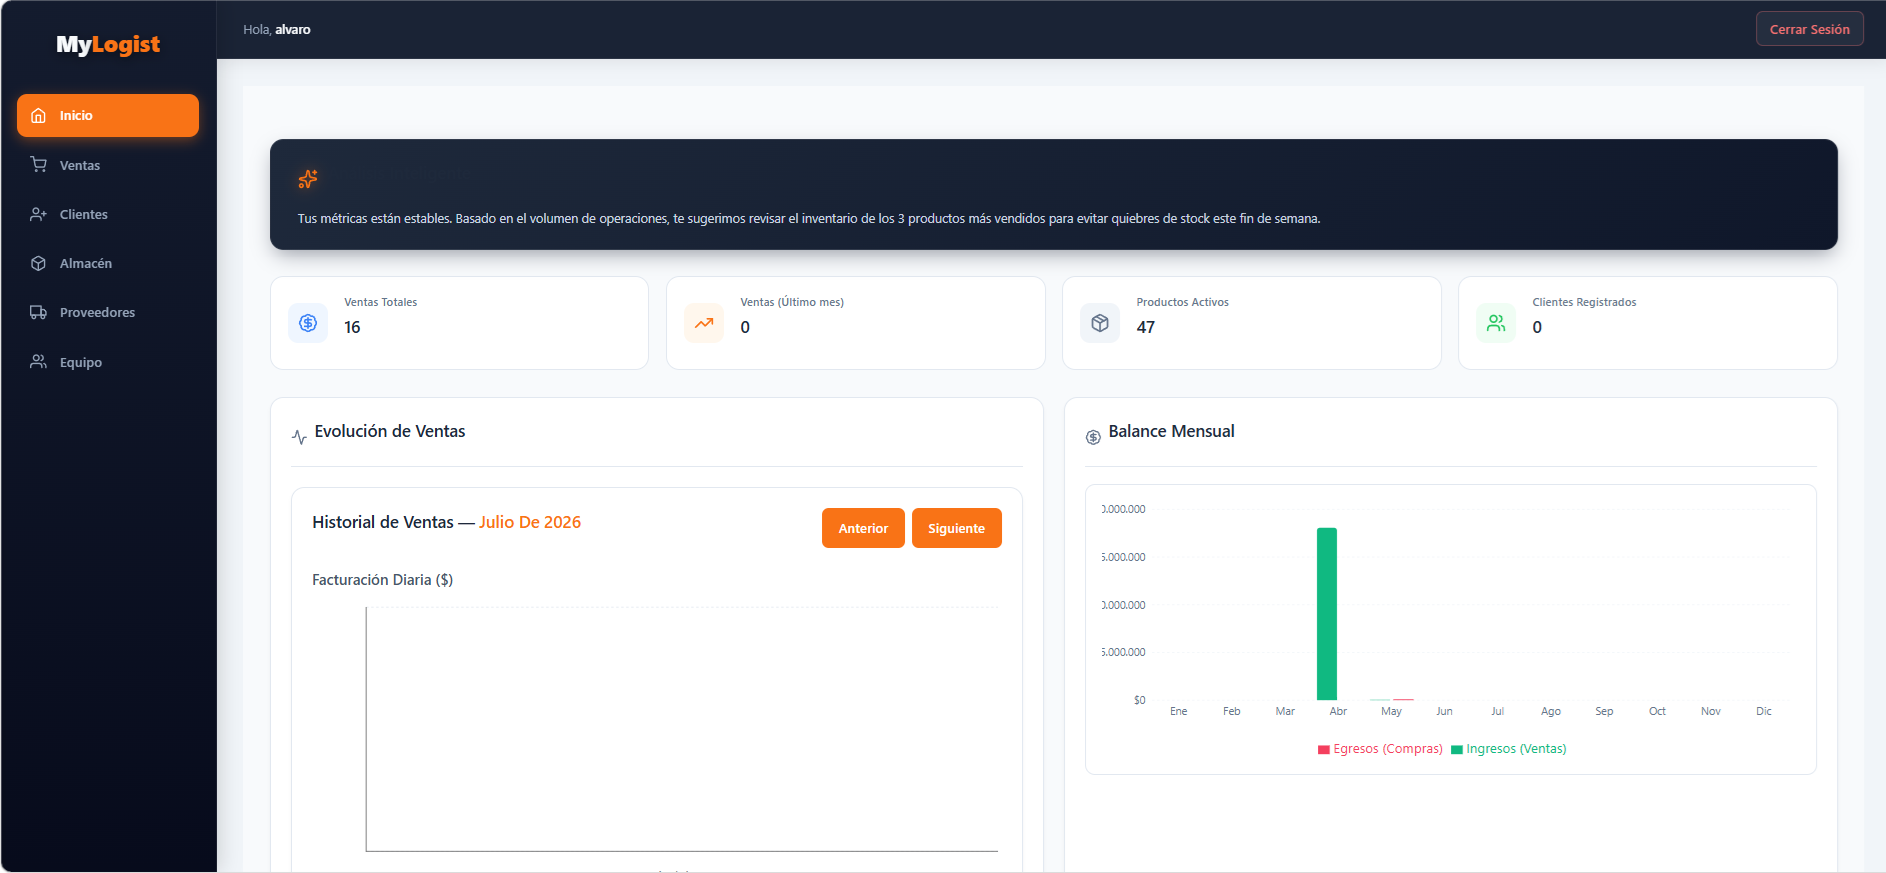
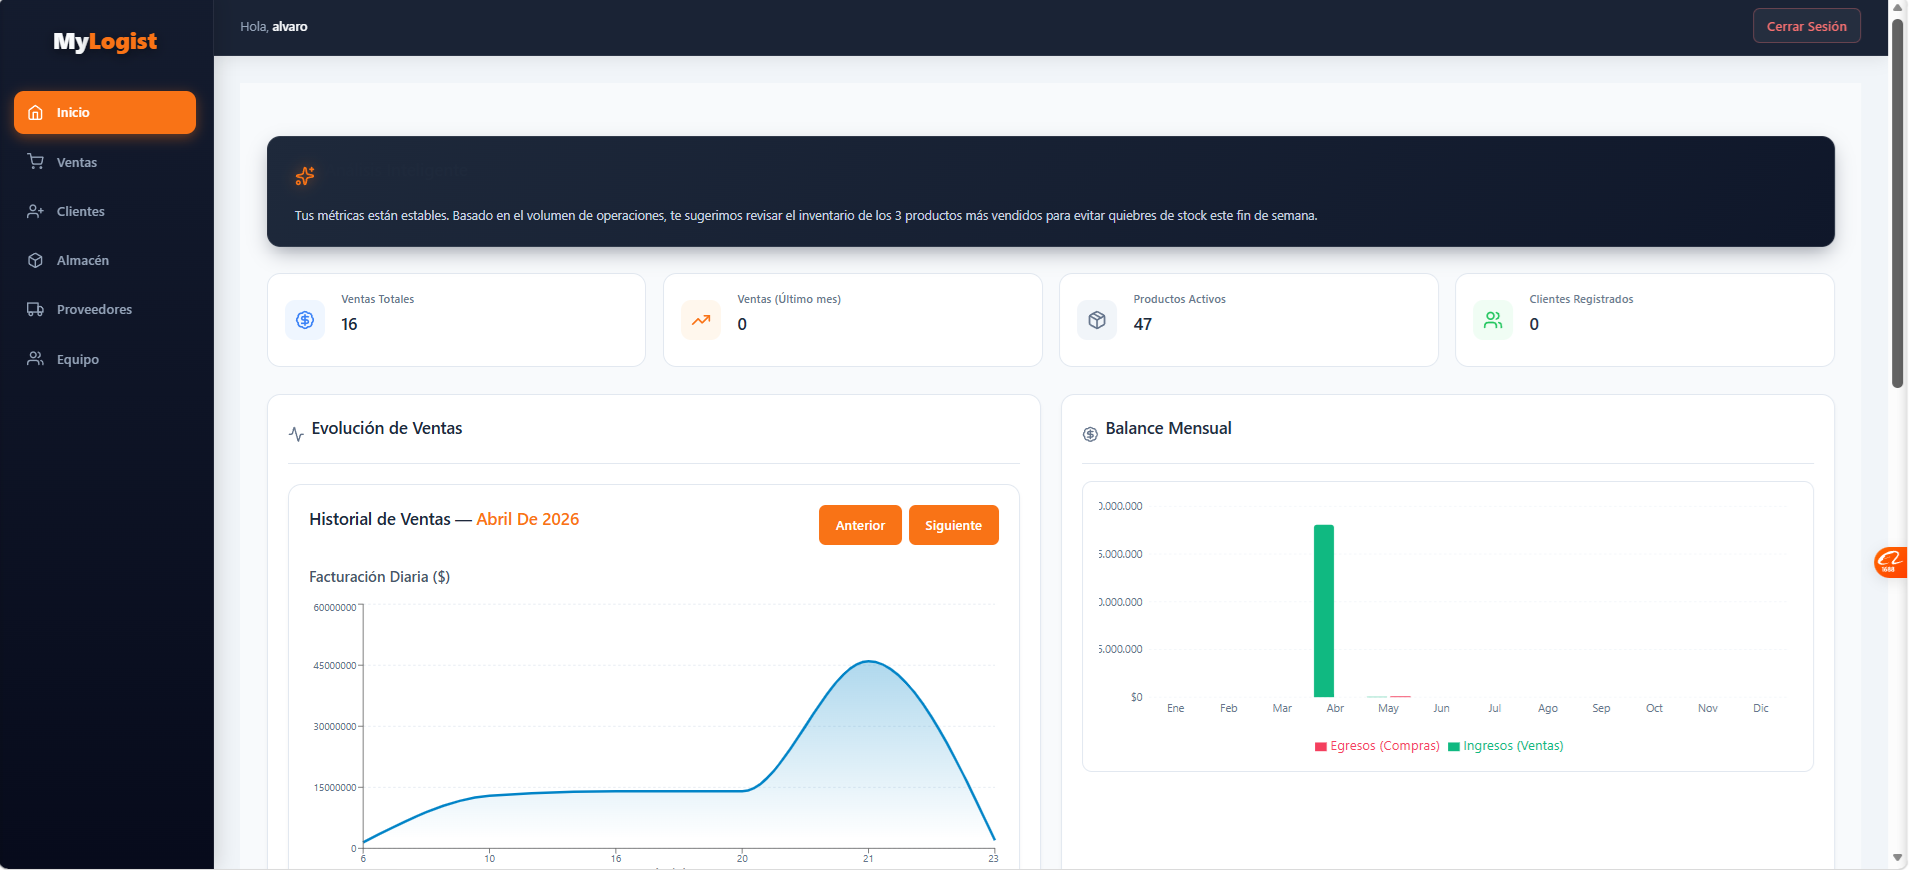
feat(landing): update LP UI/UX for ad campaign conversion

diff --git a/src/app/page.js b/src/app/page.js
@@ -14,7 +14,6 @@ const ContactModal = ({ isOpen, onClose }) => {
 
     const formData = new FormData(e.target);
     
-    // Inyectamos la clave pública de Web3Forms desde tu archivo .env.local
     formData.append("access_key", process.env.NEXT_PUBLIC_WEB3FORMS_KEY);
     formData.append("subject", `🚀 Nuevo interesado en MyLogist de la empresa: ${formData.get('company')}`);
     formData.append("redirect", ""); 
@@ -51,7 +50,7 @@ const ContactModal = ({ isOpen, onClose }) => {
           <svg className="w-6 h-6" fill="none" stroke="currentColor" viewBox="0 0 24 24"><path strokeLinecap="round" strokeLinejoin="round" strokeWidth="2" d="M6 18L18 6M6 6l12 12"></path></svg>
         </button>
 
-        <h3 className="text-2xl font-extrabold text-slate-900 mb-2">Comenzá tu prueba</h3>
+        <h3 className="text-2xl font-extrabold text-slate-900 mb-2">Comenzá tus 14 días gratis</h3>
         
         {status === 'exito' ? (
           <div className="bg-green-50 p-6 rounded-xl border border-green-200 text-center mt-6">
@@ -64,52 +63,75 @@ const ContactModal = ({ isOpen, onClose }) => {
           </div>
         ) : (
           <>
-            <p className="text-slate-500 mb-6">Dejanos tus datos y configuraremos tu entorno en MyLogist.</p>
+            <p className="text-slate-500 mb-4">Dejanos tus datos y configuraremos tu entorno en MyLogist en minutos.</p>
+            
+            <div className="flex flex-col gap-2 mb-6 text-sm text-slate-600 font-medium bg-slate-50 p-3 rounded-lg border border-slate-100">
+              <div className="flex items-center gap-2">
+                <svg className="w-5 h-5 text-green-500 shrink-0" fill="none" stroke="currentColor" viewBox="0 0 24 24"><path strokeLinecap="round" strokeLinejoin="round" strokeWidth="2" d="M5 13l4 4L19 7"></path></svg>
+                Sin tarjeta de crédito requerida.
+              </div>
+              <div className="flex items-center gap-2">
+                <svg className="w-5 h-5 text-green-500 shrink-0" fill="none" stroke="currentColor" viewBox="0 0 24 24"><path strokeLinecap="round" strokeLinejoin="round" strokeWidth="2" d="M5 13l4 4L19 7"></path></svg>
+                Promoción exclusiva de $20.000/mes tras la prueba.
+              </div>
+            </div>
+
             {status === 'error' && (
               <p className="text-red-600 text-sm mb-4">Hubo un error al enviar. Por favor, intentá de nuevo.</p>
             )}
-           <form onSubmit={handleSubmit} className="flex flex-col gap-4">
-              <div>
-                <label className="block text-sm font-medium text-slate-700 mb-1">Nombre completo</label>
-                <input 
-                  type="text" 
-                  name="name" 
-                  required 
-                  className="w-full px-4 py-3 border border-slate-300 rounded-lg focus:ring-2 focus:ring-orange-500 outline-none transition" 
-                  placeholder="Ej: Juan Pérez" 
-                />
-              </div>
+            
+            <p className="text-slate-500 mb-4 text-sm">
+  Dejanos tus datos para configurar tu entorno. Todos los campos son obligatorios (*).
+</p>
 
-              <div>
-                <label className="block text-sm font-medium text-slate-700 mb-1">Nombre de tu negocio</label>
-                <input 
-                  type="text" 
-                  name="company" 
-                  required 
-                  className="w-full px-4 py-3 border border-slate-300 rounded-lg focus:ring-2 focus:ring-orange-500 outline-none transition" 
-                  placeholder="Ej: Distribuidora Sur" 
-                />
-              </div>
-              
-              <div>
-                <label className="block text-sm font-medium text-slate-700 mb-1">Contacto (Correo o Teléfono)</label>
-                <input 
-                  type="text" 
-                  name="contact" 
-                  required 
-                  className="w-full px-4 py-3 border border-slate-300 rounded-lg focus:ring-2 focus:ring-orange-500 outline-none transition" 
-                  placeholder="Ej: juan@mail.com o 11-5544-3322" 
-                />
-              </div>
+<form onSubmit={handleSubmit} className="flex flex-col gap-4">
+  <div>
+    <label className="block text-sm font-medium text-slate-700 mb-1">
+      Nombre completo <span className="text-orange-500">*</span>
+    </label>
+    <input 
+      type="text" 
+      name="name" 
+      required 
+      className="w-full px-4 py-3 border border-slate-300 rounded-lg focus:ring-2 focus:ring-orange-500 outline-none transition" 
+      placeholder="Ej: Juan Pérez" 
+    />
+  </div>
 
-              <button 
-                type="submit" 
-                disabled={status === 'enviando'}
-                className="mt-4 w-full bg-orange-500 text-white font-bold py-3.5 px-6 rounded-lg hover:bg-orange-600 transition shadow-lg shadow-orange-500/30 disabled:opacity-50"
-              >
-                {status === 'enviando' ? 'Enviando solicitud...' : 'Solicitar mi cuenta'}
-              </button>
-            </form>
+  <div>
+    <label className="block text-sm font-medium text-slate-700 mb-1">
+      Nombre de tu negocio <span className="text-orange-500">*</span>
+    </label>
+    <input 
+      type="text" 
+      name="company" 
+      required 
+      className="w-full px-4 py-3 border border-slate-300 rounded-lg focus:ring-2 focus:ring-orange-500 outline-none transition" 
+      placeholder="Ej: Distribuidora Sur" 
+    />
+  </div>
+  
+  <div>
+    <label className="block text-sm font-medium text-slate-700 mb-1">
+      Correo electrónico <span className="text-orange-500">*</span>
+    </label>
+    <input 
+      type="email" 
+      name="email" 
+      required 
+      className="w-full px-4 py-3 border border-slate-300 rounded-lg focus:ring-2 focus:ring-orange-500 outline-none transition" 
+      placeholder="juan@ejemplo.com" 
+    />
+  </div>
+
+  <button 
+    type="submit" 
+    disabled={status === 'enviando'}
+    className="mt-2 w-full bg-orange-500 text-white font-bold py-3.5 px-6 rounded-lg hover:bg-orange-600 transition shadow-lg shadow-orange-500/30 disabled:opacity-50"
+  >
+    {status === 'enviando' ? 'Enviando solicitud...' : 'Solicitar mi cuenta gratis'}
+  </button>
+</form>
           </>
         )}
       </div>
@@ -134,7 +156,6 @@ export default function Home() {
   return (
     <main className="w-full min-h-screen bg-slate-50 text-slate-800 font-sans overflow-x-hidden">
       
-      {/* Estilos para animaciones custom */}
       <style>{`
         @keyframes scan {
           0%, 100% { top: 20%; opacity: 0; }
@@ -155,7 +176,7 @@ export default function Home() {
             My<span className="text-orange-500">Logist</span>
           </div>
           <div className="hidden sm:flex gap-8 items-center">
-            <a href="https://app.mylogist.com/login" className="text-slate-600 hover:text-blue-600 font-medium transition">Ingresar</a>
+            <a href="https://mylogistapp.com/login" target="_blank" rel="noopener noreferrer" className="text-slate-600 hover:text-orange-500 font-semibold transition">Ingresar a mi cuenta</a>
             <button onClick={() => setIsModalOpen(true)} className="bg-orange-500 text-white px-7 py-2.5 rounded-lg font-bold hover:bg-orange-600 transition shadow-lg shadow-orange-500/30">
               Probar Gratis
             </button>
@@ -173,13 +194,36 @@ export default function Home() {
           <p className="mt-8 text-xl text-slate-500 max-w-3xl leading-relaxed">
             Una plataforma diseñada para brindarte métricas de impacto y una gestión impecable. Optimizá tus procesos y tomá decisiones basadas en datos seguros.
           </p>
-          <div className="mt-12 flex flex-col sm:flex-row gap-5 w-full sm:w-auto">
-            <button onClick={() => setIsModalOpen(true)} className="bg-orange-500 text-white px-10 py-4 rounded-xl font-bold text-lg hover:bg-orange-600 transition shadow-xl shadow-orange-500/20 w-full sm:w-auto">
-              Comenzar mi prueba
-            </button>
+          <div className="mt-12 flex flex-col sm:flex-row items-center gap-5 w-full sm:w-auto">
+            <div className="w-full sm:w-auto flex flex-col items-center">
+              <button onClick={() => setIsModalOpen(true)} className="bg-orange-500 text-white px-10 py-4 rounded-xl font-bold text-lg hover:bg-orange-600 transition shadow-xl shadow-orange-500/20 w-full sm:w-auto">
+                Probar 14 días gratis
+              </button>
+              <span className="mt-2 text-sm text-slate-500 font-medium">No requiere tarjeta de crédito</span>
+            </div>
             <a href="#caracteristicas" className="bg-white border-2 border-slate-200 text-slate-700 px-10 py-4 rounded-xl font-bold text-lg hover:bg-slate-50 hover:border-slate-300 transition w-full sm:w-auto flex items-center justify-center">
               Conocer la plataforma
             </a>
+          </div>
+        </div>
+      </section>
+
+      {/* BANNER DE CONFIANZA (Reemplaza logos de clientes) */}
+      <section className="w-full bg-white border-y border-slate-200/60 py-8">
+        <div className="w-full max-w-[1920px] mx-auto px-6 sm:px-8 lg:px-12">
+          <div className="flex flex-wrap items-center justify-center gap-8 md:gap-16 text-slate-500 font-medium text-sm md:text-base">
+            <div className="flex items-center gap-2">
+              <svg className="w-5 h-5 text-blue-600" fill="none" stroke="currentColor" viewBox="0 0 24 24"><path strokeLinecap="round" strokeLinejoin="round" strokeWidth="2" d="M9 12l2 2 4-4m5.618-4.016A11.955 11.955 0 0112 2.944a11.955 11.955 0 01-8.618 3.04A12.02 12.02 0 003 9c0 5.591 3.824 10.29 9 11.622 5.176-1.332 9-6.03 9-11.622 0-1.042-.133-2.052-.382-3.016z"></path></svg>
+              Soporte técnico directo
+            </div>
+            <div className="flex items-center gap-2">
+              <svg className="w-5 h-5 text-orange-500" fill="none" stroke="currentColor" viewBox="0 0 24 24"><path strokeLinecap="round" strokeLinejoin="round" strokeWidth="2" d="M13 10V3L4 14h7v7l9-11h-7z"></path></svg>
+              Sincronización en tiempo real
+            </div>
+            <div className="flex items-center gap-2">
+              <svg className="w-5 h-5 text-blue-600" fill="none" stroke="currentColor" viewBox="0 0 24 24"><path strokeLinecap="round" strokeLinejoin="round" strokeWidth="2" d="M4 7v10c0 2.21 3.582 4 8 4s8-1.79 8-4V7M4 7c0 2.21 3.582 4 8 4s8-1.79 8-4M4 7c0-2.21 3.582-4 8-4s8 1.79 8 4m0 5c0 2.21-3.582 4-8 4s-8-1.79-8-4"></path></svg>
+              Backup seguro en la nube
+            </div>
           </div>
         </div>
       </section>
@@ -206,7 +250,6 @@ export default function Home() {
                 className="w-full h-full object-cover object-top"
               />
             </div>
-            
           </div>
         </div>
       </section>
@@ -297,7 +340,6 @@ export default function Home() {
                     <path strokeLinecap="round" strokeLinejoin="round" strokeWidth="1.5" d="M3 10v4c0 2.2 1.8 4 4 4h10c2.2 0 4-1.8 4-4v-4M3 10V6c0-2.2 1.8-4 4-4h10c2.2 0 4 1.8 4 4v4M3 10h18M8 14h8"></path>
                   </svg>
                 </div>
-                {/* Láser de escáner animado */}
                 <div className="absolute left-1/4 right-1/4 h-1 bg-red-500/80 shadow-[0_0_15px_rgba(239,68,68,0.8)] z-20 rounded-full animate-scan"></div>
               </div>
             </div>
@@ -323,8 +365,62 @@ export default function Home() {
         </div>
       </section>
 
-      {/* BLOQUE 3: ASISTENTE IA (CON EL MOCKUP DEL CELU) */}
+      {/* BLOQUE NUEVO: GESTIÓN MULTI-USUARIO E HISTORIAL DE MOVIMIENTOS */}
       <section className="w-full bg-slate-50 py-20 lg:py-32 overflow-hidden border-t border-slate-200/50">
+        <div className="w-full max-w-[1920px] mx-auto px-6 sm:px-8 lg:px-12">
+          <div className="flex flex-col lg:flex-row items-center gap-16 lg:gap-24">
+            <div className="w-full lg:w-1/2">
+              <div className="inline-flex items-center gap-2 px-4 py-2 rounded-full bg-orange-100 text-orange-700 font-semibold text-sm mb-6">
+                <svg className="w-5 h-5" fill="none" stroke="currentColor" viewBox="0 0 24 24"><path strokeLinecap="round" strokeLinejoin="round" strokeWidth="2" d="M12 4.354a4 4 0 110 5.292M15 21H3v-1a6 6 0 0112 0v1zm0 0h6v-1a6 6 0 00-9-5.197M13 7a4 4 0 11-8 0 4 4 0 018 0z"></path></svg>
+                Control y Seguridad
+              </div>
+              <h2 className="text-3xl sm:text-4xl lg:text-5xl font-extrabold text-slate-900 leading-tight mb-6">Trabajá en equipo y <br /><span className="text-orange-500">sabelo todo.</span></h2>
+              <p className="text-lg text-slate-600 mb-8 leading-relaxed">Asigná accesos a tus colaboradores manteniendo el orden. Con el historial detallado de movimientos, vas a saber exactamente qué pasó con cada cosa, quién la registró y en qué momento.</p>
+              <ul className="space-y-4">
+                <li className="flex items-center gap-4">
+                  <div className="w-8 h-8 rounded-full bg-orange-100 flex items-center justify-center text-orange-600 shrink-0">
+                    <svg className="w-5 h-5" fill="none" stroke="currentColor" viewBox="0 0 24 24"><path strokeLinecap="round" strokeLinejoin="round" strokeWidth="2" d="M5 13l4 4L19 7"></path></svg>
+                  </div>
+                  <span className="text-slate-700 font-medium">Usuarios múltiples con roles definidos.</span>
+                </li>
+                <li className="flex items-center gap-4">
+                  <div className="w-8 h-8 rounded-full bg-orange-100 flex items-center justify-center text-orange-600 shrink-0">
+                    <svg className="w-5 h-5" fill="none" stroke="currentColor" viewBox="0 0 24 24"><path strokeLinecap="round" strokeLinejoin="round" strokeWidth="2" d="M5 13l4 4L19 7"></path></svg>
+                  </div>
+                  <span className="text-slate-700 font-medium">Registro de auditoría: quién hizo cada acción y cuándo.</span>
+                </li>
+              </ul>
+            </div>
+            <div className="w-full lg:w-1/2 flex justify-center">
+              <div className="w-full max-w-lg bg-white p-8 rounded-3xl shadow-xl border border-slate-100">
+                <div className="flex items-center justify-between mb-6 pb-4 border-b border-slate-100">
+                  <span className="font-bold text-slate-800">Historial de Movimientos</span>
+                  <span className="text-xs bg-slate-100 text-slate-600 px-2.5 py-1 rounded-full font-medium">En tiempo real</span>
+                </div>
+                <div className="space-y-4 text-sm">
+                  <div className="flex items-center justify-between p-3 bg-slate-50 rounded-xl">
+                    <div>
+                      <p className="font-semibold text-slate-800">Venta de Mercadería</p>
+                      <p className="text-slate-500 text-xs">Usuario: alvaro</p>
+                    </div>
+                    <span className="text-orange-600 font-bold">-$115.000</span>
+                  </div>
+                  <div className="flex items-center justify-between p-3 bg-slate-50 rounded-xl">
+                    <div>
+                      <p className="font-semibold text-slate-800">Orden de Compra</p>
+                      <p className="text-slate-500 text-xs">Proveedor: ElectroVolt</p>
+                    </div>
+                    <span className="text-green-600 font-bold">Recibido</span>
+                  </div>
+                </div>
+              </div>
+            </div>
+          </div>
+        </div>
+      </section>
+
+      {/* BLOQUE 3: ASISTENTE IA (CON EL MOCKUP DEL CELU) */}
+      <section className="w-full bg-white py-20 lg:py-32 overflow-hidden border-t border-slate-200/50">
         <div className="w-full max-w-[1920px] mx-auto px-6 sm:px-8 lg:px-12">
           <div className="flex flex-col lg:flex-row items-center gap-16 lg:gap-24">
             <div className="w-full lg:w-1/2">
@@ -351,7 +447,6 @@ export default function Home() {
             </div>
             <div className="w-full lg:w-1/2 flex justify-center relative">
               <div className="absolute top-1/2 left-1/2 -translate-x-1/2 -translate-y-1/2 w-[400px] h-[400px] bg-indigo-500/10 rounded-full blur-[80px] pointer-events-none"></div>
-              {/* Aquí se utiliza el mockup del Asistente de IA */}
               <img 
                 src="/mockup_celular.png" 
                 alt="Mockup del Asistente IA en el celular" 
@@ -362,11 +457,57 @@ export default function Home() {
         </div>
       </section>
 
+      {/* BLOQUE NUEVO: ÚSALO DONDE QUIERAS (MULTIPLATAFORMA) */}
+      <section className="w-full bg-white py-20 lg:py-32 overflow-hidden">
+        <div className="w-full max-w-[1920px] mx-auto px-6 sm:px-8 lg:px-12 text-center">
+          <div className="inline-flex items-center gap-2 px-4 py-2 rounded-full bg-blue-100 text-blue-700 font-semibold text-sm mb-6">
+            <svg className="w-5 h-5" fill="none" stroke="currentColor" viewBox="0 0 24 24"><path strokeLinecap="round" strokeLinejoin="round" strokeWidth="2" d="M9.75 17L9 20l-1 1h8l-1-1-.75-3M3 13h18M5 17h14a2 2 0 002-2V5a2 2 0 00-2-2H5a2 2 0 00-2 2v10a2 2 0 002 2z"></path></svg>
+            100% Multiplataforma
+          </div>
+          <h2 className="text-3xl sm:text-4xl lg:text-5xl font-extrabold text-slate-900 leading-tight mb-6">
+            Úsalo donde quieras, <br className="hidden sm:block" />
+            <span className="text-blue-600">siempre sincronizado.</span>
+          </h2>
+          <p className="text-lg text-slate-600 max-w-2xl mx-auto mb-16 leading-relaxed">
+            No importa si estás en la compu de tu escritorio, usando una tablet o desde el celular recorriendo el depósito. Tus datos viajan con vos en tiempo real.
+          </p>
+
+          <div className="grid grid-cols-1 md:grid-cols-3 gap-8 max-w-5xl mx-auto">
+            {/* Tarjeta Compu */}
+            <div className="bg-slate-50 p-8 rounded-3xl border border-slate-100 flex flex-col items-center text-center shadow-sm">
+              <div className="w-16 h-16 bg-white rounded-2xl flex items-center justify-center mb-6 shadow-sm text-blue-600">
+                <svg className="w-8 h-8" fill="none" stroke="currentColor" viewBox="0 0 24 24"><path strokeLinecap="round" strokeLinejoin="round" strokeWidth="2" d="M9.75 17L9 20l-1 1h8l-1-1-.75-3M3 13h18M5 17h14a2 2 0 002-2V5a2 2 0 00-2-2H5a2 2 0 00-2 2v10a2 2 0 002 2z"></path></svg>
+              </div>
+              <h3 className="text-xl font-bold text-slate-900 mb-2">Computadora</h3>
+              <p className="text-slate-600 text-sm">Ideal para la administración completa, métricas y reportes gerenciales en pantalla grande.</p>
+            </div>
+
+            {/* Tarjeta Tablet */}
+            <div className="bg-slate-50 p-8 rounded-3xl border border-slate-100 flex flex-col items-center text-center shadow-sm">
+              <div className="w-16 h-16 bg-white rounded-2xl flex items-center justify-center mb-6 shadow-sm text-orange-500">
+                <svg className="w-8 h-8" fill="none" stroke="currentColor" viewBox="0 0 24 24"><path strokeLinecap="round" strokeLinejoin="round" strokeWidth="2" d="M12 18h.01M7 21h10a2 2 0 002-2V5a2 2 0 00-2-2H7a2 2 0 00-2 2v14a2 2 0 002 2z"></path></svg>
+              </div>
+              <h3 className="text-xl font-bold text-slate-900 mb-2">Tablet</h3>
+              <p className="text-slate-600 text-sm">Perfecta para mostrar en el counter, registrar operaciones rápidas o validar pedidos al vuelo.</p>
+            </div>
+
+            {/* Tarjeta Celular */}
+            <div className="bg-slate-50 p-8 rounded-3xl border border-slate-100 flex flex-col items-center text-center shadow-sm">
+              <div className="w-16 h-16 bg-white rounded-2xl flex items-center justify-center mb-6 shadow-sm text-blue-600">
+                <svg className="w-8 h-8" fill="none" stroke="currentColor" viewBox="0 0 24 24"><path strokeLinecap="round" strokeLinejoin="round" strokeWidth="2" d="M12 18h.01M8 21h8a2 2 0 002-2V5a2 2 0 00-2-2H8a2 2 0 00-2 2v14a2 2 0 002 2z"></path></svg>
+              </div>
+              <h3 className="text-xl font-bold text-slate-900 mb-2">Celular</h3>
+              <p className="text-slate-600 text-sm">Llevá el control en tu bolsillo y transformá la cámara en un escáner de códigos de barras.</p>
+            </div>
+          </div>
+        </div>
+      </section>
+
       {/* CALL TO ACTION FINAL */}
       <section className="w-full bg-blue-600 py-24">
         <div className="w-full max-w-[1920px] mx-auto px-6 sm:px-8 lg:px-12 text-center">
-          <h2 className="text-4xl sm:text-5xl font-extrabold text-white mb-8">¿Listo para ordenar tu negocio?</h2>
-          <p className="text-blue-100 text-xl max-w-2xl mx-auto mb-10">Unite a las empresas que ya están optimizando su inventario. Empezá hoy mismo tu prueba.</p>
+          <h2 className="text-4xl sm:text-5xl font-extrabold text-white mb-4">¿Listo para ordenar tu negocio?</h2>
+          <p className="text-blue-100 text-xl max-w-2xl mx-auto mb-10">Comienza tus 14 días gratis hoy mismo sin tarjeta de crédito.</p>
           <button onClick={() => setIsModalOpen(true)} className="bg-orange-500 text-white px-12 py-5 rounded-xl font-bold text-xl hover:bg-orange-400 transition shadow-2xl shadow-orange-500/50">
             Crear mi cuenta gratis
           </button>
